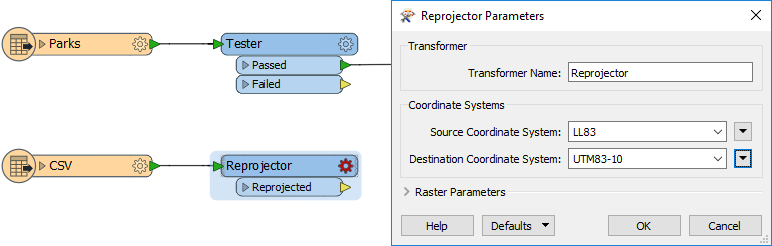
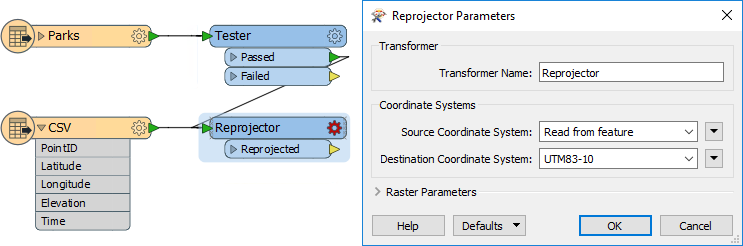
2017 Chapter 4 Exercise 3 (plus other changes)

diff --git a/DesktopBasic4Components/4.Exercise3.md b/DesktopBasic4Components/4.Exercise3.md
@@ -73,58 +73,58 @@ Select Readers > Add Reader from the menubar in Workbench. When prompted fill in
 
 This dataset contains several tables, but we only need one of them. So, when prompted, deselect all feature types and leave only FoodVendors selected:
 
-![](./Images/Img4.75.Ex2.CommunityMappingFeatureTypes.png)
+![](./Images/Img4.208.Ex3.CommunityMappingFeatureTypes.png)
 
 
-<br>**3) Remove FoodVendors Feature Type**
-<br>No sooner have you added the FoodVendors layer to the workspace than the telephone rings. It is the event organizers. Instead of showing food vendors on the map, they now want to simply show the location of drinking fountains.
+<br>**3) Import DrinkingFountains Feature Type**
+<br>No sooner have you added the FoodVendors layer to the workspace than the telephone rings. It is the event organizers. As well as showing food vendors on the map, they now want to also show the location of drinking fountains.
 
-Muttering under your breath, click on the newly added feature type for FoodVendors and press the delete key. You will see this dialog appear:
-
-![](./Images/Img4.79.Ex3.DeleteFoodVendorFeatureType.png)  
-
-The dialog appears because FoodVendors is the only feature type in the workspace for this Reader. It is asking if we wish to delete the Reader component as well, since there are no feature types left to read.
-
-Usually the answer is Yes. However, we wish to now read the DrinkingFountains data. We could choose to delete the Reader and just add a new one. But, because DrinkingFountains is a table in the same geodatabase as FoodVendors there is another way.
-
-So, click No in this dialog.
-
-
-<br>**4) Import DrinkingFountains Feature Type**
-<br>Now we have a Reader reading from a Geodatabase, but without feature types. You can see that if you look in the Navigator window. Let's fix that. Click Readers > Import Feature Types on the menubar.
+Muttering under your breath, Click Readers > Import Feature Types on the menubar.
 
 The first dialog that pops up will ask you which Reader you want to import the feature type to. Select the Community Mapping Geodatabase:
 
-![](./Images/Img4.80.Ex3.ImportFTSelectReaderDialog.png)
+![](./Images/Img4.209.Ex3.ImportFTSelectReaderDialog.png)
 
-Now you are prompted which dataset you wish to import the feature type from. Enter the details (as above) for the Community Mapping Geodatabase:
+Now you are prompted which dataset you wish to import the feature type from. Enter the details (as above) for the Community Mapping Geodatabase (but don't click OK yet):
 
-![](./Images/Img4.81.Ex3.ImportFTSelectDatasetDialog.png)
+![](./Images/Img4.210.Ex3.ImportFTSelectDatasetDialog.png)
 
-Finally you are prompted to select the feature type to import. In this case deselect all tables except for DrinkingFountains:
+Before clicking OK, click the Parameters button. In the parameters dialog select the DrinkingFountains table to read:
 
-![](./Images/Img4.82.Ex3.ImportFTSelectFTDialog.png)
+![](./Images/Img4.211.Ex3.ImportFTSelectFTDialog.png)
 
-This will add the DrinkingFountains feature type to the workspace.
+Click OK and OK again. This will add the DrinkingFountains feature type to the workspace.
 
 
-<br>**5) Add Clipper**
+<br>**4) Remove FoodVendors Feature Type**
+<br>Again the phone rings. This time the organizers say they have changed their mind again and no longer need the FoodVendors table.
+
+Well, this is a very simple fix. Put down the phone, click on the FoodVendors feature type, and press the delete key. 
+
+The feature type is now removed from the workspace.
+
+
+<br>**5) Connect to Reprojector**
+<br>Like the parks data, we don't really need to reproject the Geodatabase data - it is already in UTM83-10 - but it makes for a tidier workspace, so connect the DrinkingFountains feature type to the Reprojector transformer.
+ 
+
+<br>**6) Add Clipper**
 <br>If you recall the Community Maps dataset covers the entire city, and yet we're restricting the map to the park boundaries. To cut the excess data away we'll use a Clipper transformer, so add one to the canvas. Then...
 
 - Connect the Tester:Passed port to the Clipper:Clipper port. 
-- Connect the CommunityMap:DrinkingFountains feature type to the Clipper:Clippee port:
+- Connect the Reprojector:Reprojected port to the Clipper:Clippee port:
 
 <br>
-![](./Images/Img4.74.Ex3.ClipperOnCanvas.png)
+![](./Images/Img4.212.Ex3.ClipperOnCanvas.png)
 
-You can check the transformer parameters, but the defaults should be fine for this project.
+You can check the transformer parameters, but the defaults should be fine for this project. Again, all data is being routed through the Clipper, even if it doesn't need to be so, in order to make a tidier workspace.
 
 
 <br>**6) Run Workspace**
 <br>Again, add Inspectors and run the workspace to ensure the result is what we are expecting.
 
-![](./Images/Img4.88.Ex3.OutputSoFar.png)
-<br><span style="font-style:italic;font-size:x-small">Tiles Courtesy of <a href="http://www.mapquest.com/">MapQuest</a></span>
+![](./Images/Img4.213.Ex3.OutputSoFar.png)
+<br><span style="font-style:italic;font-size:x-small">Map tiles by <a href="http://stamen.com">Stamen Design</a>, under <a href="http://creativecommons.org/licenses/by/3.0">CC-BY-3.0</a>. Data by <a href="http://openstreetmap.org">OpenStreetMap</a>, under <a href="http://creativecommons.org/licenses/by-sa/3.0">CC-BY-SA</a>.
 
 ---
 
@@ -143,9 +143,8 @@ You can check the transformer parameters, but the defaults should be fine for th
 <span style="font-family:serif; font-style:italic; font-size:larger">
 By completing this exercise you have learned how to:
 <br>
-<ul><li>Delete feature types from a workspace</li>
-<li>Handle the options when the final feature type in a Reader is deleted</li>
-<li>Import a feature type from a dataset into a Reader in the workspace</li>
+<ul><li>Import a feature type from a dataset into a Reader in the workspace</li>
+<li>Delete feature types from a workspace</li>
 <li>Use the Clipper transformer to clip data</li></ul>
 </span>
 </td>

diff --git a/DesktopBasic4Components/4.Exercise2.md b/DesktopBasic4Components/4.Exercise2.md
@@ -69,8 +69,15 @@ Select Readers > Add Reader from the menubar in Workbench. When prompted fill in
 <td style="">C:\FMEData2017\Data\GPS\WalkingTrail.csv</td>
 </tr>
 
+<tr>
+<td style="font-weight: bold">Coord. System</td>
+<td style="">LL84</td>
+</tr>
+
 </table>
 
+The coordinate system setting is below the Dataset parameter, on the right hand side of the dialog. It's important to specify the coordinate system here because we're going to be dealing with lots of datasets with different coordinate systems, and data unflagged with coordinate system information is going to be problematic. 
+ 
 Now press the Parameters button. This brings up a parameters dialog that is rather large and looks like this:
 
 ![](./Images/Img4.203.Ex2.CSVParametersAddReaderDialog.png)
@@ -119,10 +126,36 @@ Other parameters we could set, but don't really need to (the data should already
 <br>**4) Add Reprojector**
 <br>The one issue with the CSV data is that it is in a Latitude/Longitude coordinate system, and not the same UTM system as used by the parks data. Let's fix that by adding a Reprojector transformer to the workspace.
 
-Connect it to the CSV reader feature type and set its parameters to reproject from LL83 to UTM83-10:
+Connect it to the CSV reader feature type and set its parameters to reproject from *Read from feature* to *UTM83-10*:
 
 ![](./Images/Img4.206.Ex2.ReprojectorCanvasAndParams.png)
 
+Also, as in the above image, connect the Tester:Passed output port to the Reprojector.
+
+---
+
+<!--Person X Says Section-->
+
+<table style="border-spacing: 0px">
+<tr>
+<td style="vertical-align:middle;background-color:darkorange;border: 2px solid darkorange">
+<i class="fa fa-quote-left fa-lg fa-pull-left fa-fw" style="color:white;padding-right: 12px;vertical-align:text-top"></i>
+<span style="color:white;font-size:x-large;font-weight: bold;font-family:serif">First Officer Transformer says...</span>
+</td>
+</tr>
+
+<tr>
+<td style="border: 1px solid darkorange">
+<span style="font-family:serif; font-style:italic; font-size:larger">
+This might seem odd. The Parks data is already in the correct coordinate system, so why reproject it?
+<br><br>The answer is that we're trying to make a tidy workspace. If all features go through the Reprojector there will be fewer connections passing across the screen. We can separate the data out again at a later stage.
+<br><br>We don't need to worry that the Parks data will be wrongly reprojected. It is already tagged with UTM83-10 and FME will recognize this and carry out no action on the data.
+</span>
+</td>
+</tr>
+</table>
+
+---
 
 <br>**5) Run Workspace**
 <br>Feel free to add Inspector transformers and run the workspace to inspect what we have created so far.

diff --git a/WhatsNew.md b/WhatsNew.md
@@ -72,6 +72,7 @@ These changes are for the FME Desktop Basic Training Course.
 - Added info on the ability to read data directly from a web connection
 - Feature Type parameters dialog updated. Also parameters appear in Parameter Editor window
 - Made a note of Unexpected Input not working for CAD files any more 
+- Exercise 3: Switched Import and Delete actions to add a second table before deleting the first
 
 ### Practical Transformer Use ###
 - Renumbered images to 3 digits (eg Img5.001.xxxx.png)
